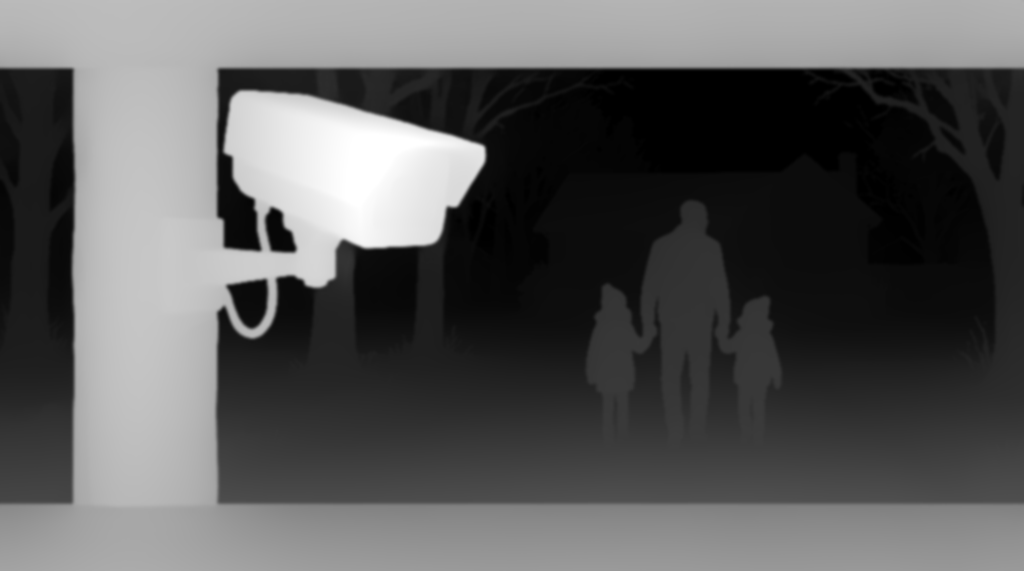
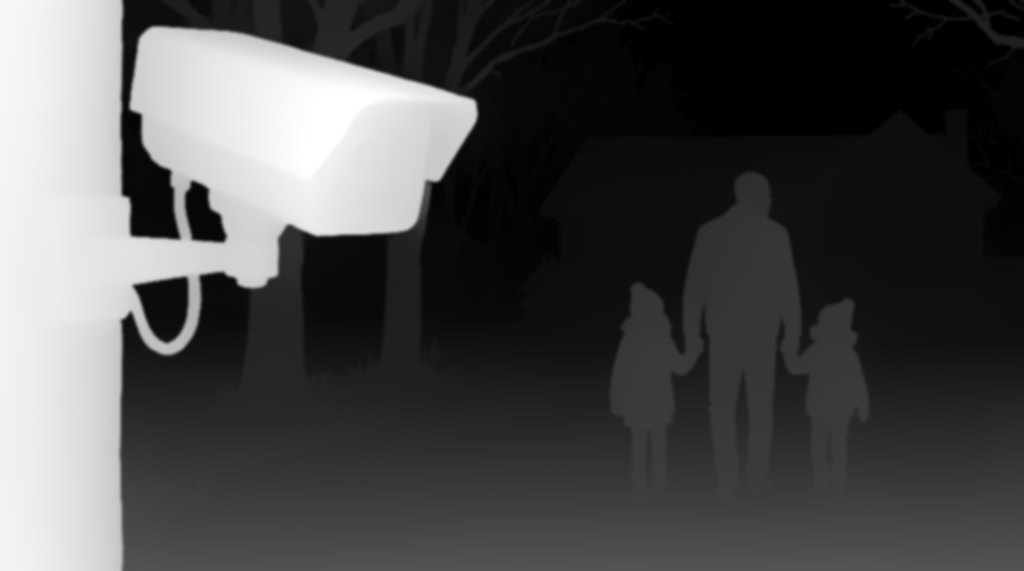
Comic: fit the score to the film, crop baked-in bars from three panels [skip ci]

diff --git a/scripts/originals/comic/cinema.html b/scripts/originals/comic/cinema.html
@@ -305,7 +305,7 @@ async function drawCut(cut, t) {
     // Generated motion: the clip is stretched to the cut (never faster than real time) and lightly pushed in.
     const v = clip.v, rate = Math.min(1, (v.duration - 0.1) / dur), want = Math.min(v.duration - 0.05, k * rate);
     if (Math.abs(v.currentTime - want) > 0.001) await new Promise((ok) => { v.onseeked = ok; v.currentTime = want; });
-    const q = ease(k / dur), z = 1.02 + 0.05 * q;
+    const q = ease(k / dur), z = 1.04 + 0.05 * q;
     shoot(img, { z: z * (1 + (cut.kind === "dip" ? 0 : 0.03 * (1 - out3(k / 0.55)))), r: 0, px: 0, py: 0, ox: 0, oy: 0, d: 0 }, clip);
     atmosphere({ fx: L.clipFx ?? {} }, t - cut.start, k, { ox: 0 });
     return;
